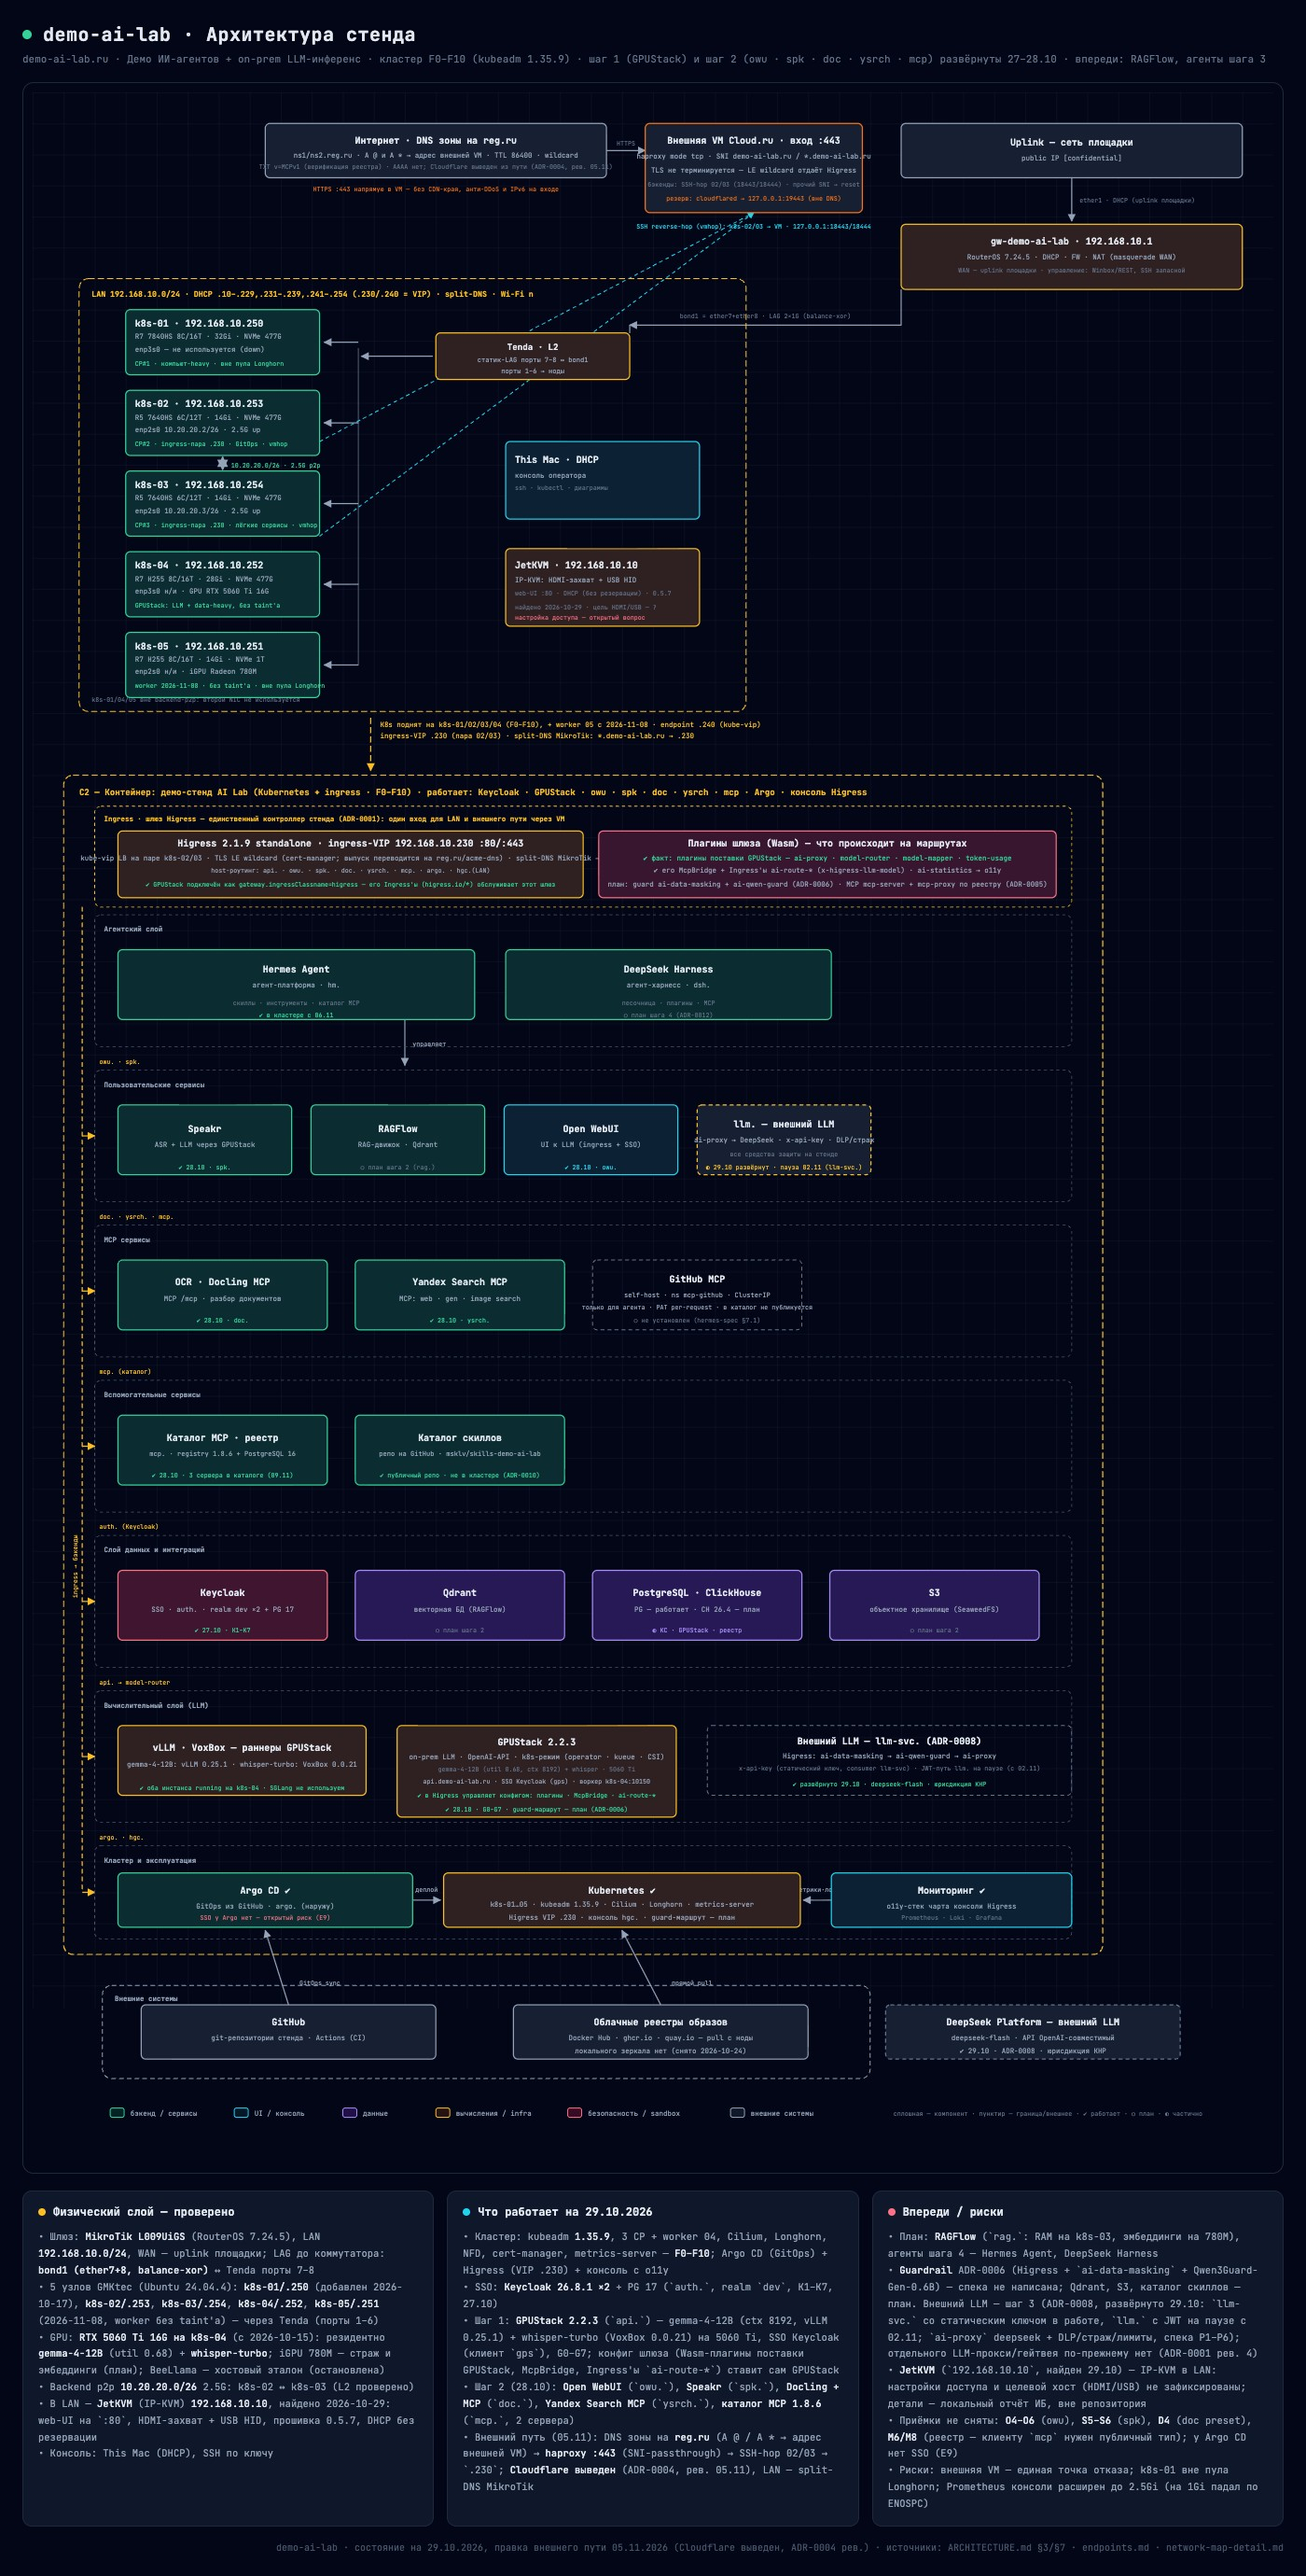
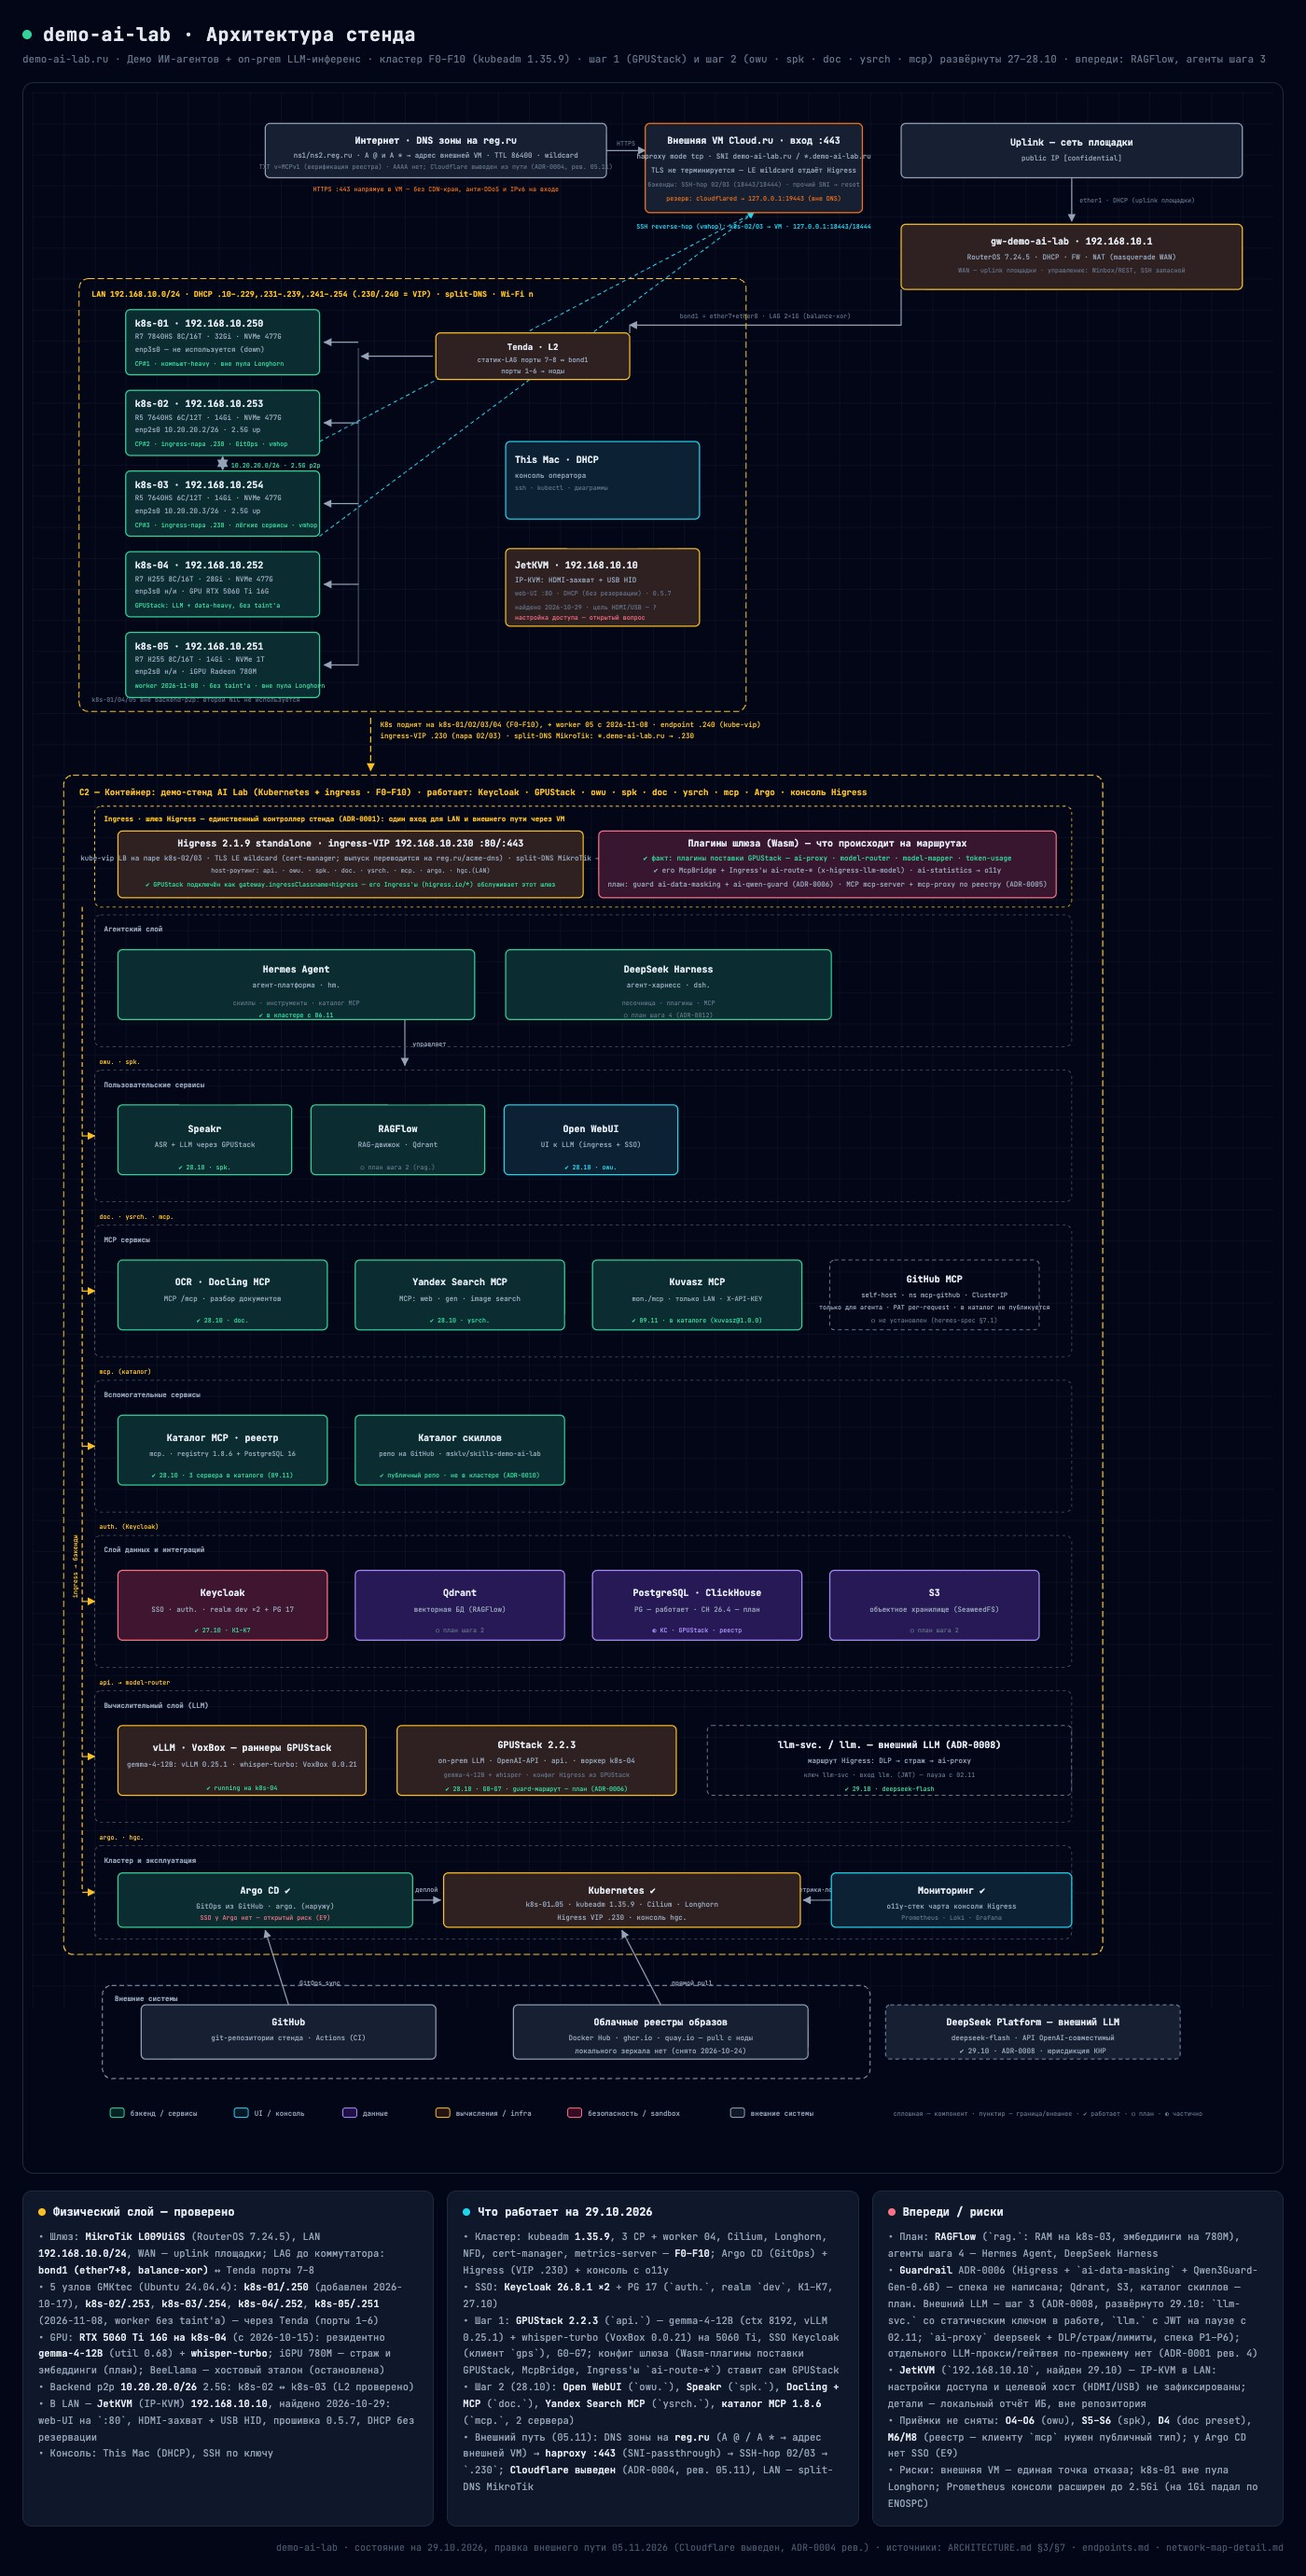
docs(schemes): ряд MCP полный, llm-svc/llm — на слое вычислений, подписи сжаты
Схемы C2 и общая (HTML + excalidraw), оба jpg перерисованы.

MCP: добавлен Kuvasz MCP (`mon./mcp`, только LAN, X-API-KEY, ✔ 09.11 в каталоге) —
ряд теперь полный: OCR·Docling, Yandex Search, Kuvasz, GitHub MCP (последним, пунктир:
self-host в ns mcp-github, ClusterIP-only, не в каталоге, не установлен). В excalidraw
четыре карточки сжаты до 250 px, чтобы влезть в зону без выхода за границу.

Внешний LLM: карточка `llm.` убрана из ряда «Пользовательские сервисы» (стояла не на своём
слое), в слое вычислений одна карточка `llm-svc. / llm.` с подписью «маршрут Higress».
В excalidraw box-llm перенесён из «Пользовательских сервисов» в «Вычислительный слой» и
поставлен под Higress, добавлена стрелка Higress → llm-svc; на GPUStack llm не завязан.

Подписи: GPUStack 6 строк мелких фактов → 3 (карточка 118→90 px, ряд выровнен), у vLLM
убран «SGLang не используем», у Kubernetes — metrics-server и дубль про guard-маршрут,
у llm-svc две длинные строки → одна.

Проверка: check_doc_links — 0 битых; сканы секретов/адресов/ИБ по staged-диффу — чисто.

Changed region(s): [[0.43, 0.4051, 0.6757, 0.5297], [0.3071, 0.6543, 0.5221, 0.7167], [0.6143, 0.6543, 0.7679, 0.7167]]

diff --git a/architecture/demo-ai-lab-architecture.html b/architecture/demo-ai-lab-architecture.html
@@ -326,14 +326,6 @@
   <text x="720" y="1360" font-size="9" fill="#94a3b8" text-anchor="middle">UI к LLM (ingress + SSO)</text>
   <text x="720" y="1388" font-size="8" fill="#22d3ee" text-anchor="middle">✔ 28.10 · owu.</text>
 
-  <!-- ===== внешний LLM: маршрут llm./llm-svc. (ADR-0008: развёрнут 29.10, пауза SSO-пути с 02.11) ===== -->
-  <rect x="857" y="1305" width="224" height="90" rx="6" fill="#0f172a"/>
-  <rect x="857" y="1305" width="224" height="90" rx="6" fill="rgba(30,41,59,0.5)" stroke="#fbbf24" stroke-width="1.5" stroke-dasharray="5,4"/>
-  <text x="969" y="1334" font-size="12" fill="#e2e8f0" text-anchor="middle" font-weight="700">llm. — внешний LLM</text>
-  <text x="969" y="1354" font-size="9" fill="#94a3b8" text-anchor="middle">ai-proxy → DeepSeek · x-api-key · DLP/страж</text>
-  <text x="969" y="1372" font-size="8" fill="#64748b" text-anchor="middle">все средства защиты на стенде</text>
-  <text x="969" y="1388" font-size="8" fill="#fbbf24" text-anchor="middle">◐ 29.10 развёрнут · пауза 02.11 (llm-svc.)</text>
-
   <!-- ===== MCP сервисы ===== -->
   <rect x="110" y="1505" width="270" height="90" rx="6" fill="#0f172a"/>
   <rect x="110" y="1505" width="270" height="90" rx="6" fill="rgba(6,78,59,0.4)" stroke="#34d399" stroke-width="1.5"/>
@@ -347,11 +339,17 @@
   <text x="551" y="1558" font-size="9" fill="#94a3b8" text-anchor="middle">MCP: web · gen · image search</text>
   <text x="551" y="1585" font-size="8" fill="#34d399" text-anchor="middle">✔ 28.10 · ysrch.</text>
 
-  <rect x="722" y="1505" width="270" height="90" rx="6" fill="none" stroke="#64748b" stroke-width="1.2" stroke-dasharray="5,4"/>
-  <text x="857" y="1534" font-size="12" fill="#e2e8f0" text-anchor="middle" font-weight="700">GitHub MCP</text>
-  <text x="857" y="1553" font-size="8.5" fill="#94a3b8" text-anchor="middle">self-host · ns mcp-github · ClusterIP</text>
-  <text x="857" y="1569" font-size="8" fill="#94a3b8" text-anchor="middle">только для агента · PAT per-request · в каталог не публикуется</text>
-  <text x="857" y="1586" font-size="8" fill="#64748b" text-anchor="middle">○ не установлен (hermes-spec §7.1)</text>
+  <rect x="722" y="1505" width="270" height="90" rx="6" fill="#0f172a"/>
+  <rect x="722" y="1505" width="270" height="90" rx="6" fill="rgba(6,78,59,0.4)" stroke="#34d399" stroke-width="1.5"/>
+  <text x="857" y="1538" font-size="12" fill="#e2e8f0" text-anchor="middle" font-weight="700">Kuvasz MCP</text>
+  <text x="857" y="1558" font-size="8.5" fill="#94a3b8" text-anchor="middle">mon./mcp · только LAN · X-API-KEY</text>
+  <text x="857" y="1585" font-size="8" fill="#34d399" text-anchor="middle">✔ 09.11 · в каталоге (kuvasz@1.0.0)</text>
+
+  <rect x="1028" y="1505" width="270" height="90" rx="6" fill="none" stroke="#64748b" stroke-width="1.2" stroke-dasharray="5,4"/>
+  <text x="1163" y="1534" font-size="12" fill="#e2e8f0" text-anchor="middle" font-weight="700">GitHub MCP</text>
+  <text x="1163" y="1553" font-size="8.5" fill="#94a3b8" text-anchor="middle">self-host · ns mcp-github · ClusterIP</text>
+  <text x="1163" y="1569" font-size="8" fill="#94a3b8" text-anchor="middle">только для агента · PAT per-request · в каталог не публикуется</text>
+  <text x="1163" y="1586" font-size="8" fill="#64748b" text-anchor="middle">○ не установлен (hermes-spec §7.1)</text>
 
   <!-- ===== вспомогательные ===== -->
   <rect x="110" y="1705" width="270" height="90" rx="6" fill="#0f172a"/>
@@ -396,22 +394,20 @@
   <rect x="110" y="2105" width="320" height="90" rx="6" fill="rgba(120,53,15,0.3)" stroke="#fbbf24" stroke-width="1.5"/>
   <text x="270" y="2138" font-size="12" fill="#e2e8f0" text-anchor="middle" font-weight="700">vLLM · VoxBox — раннеры GPUStack</text>
   <text x="270" y="2158" font-size="9" fill="#94a3b8" text-anchor="middle">gemma-4-12B: vLLM 0.25.1 · whisper-turbo: VoxBox 0.0.21</text>
-  <text x="270" y="2188" font-size="8" fill="#34d399" text-anchor="middle">✔ оба инстанса running на k8s-04 · SGLang не используем</text>
+  <text x="270" y="2188" font-size="8" fill="#34d399" text-anchor="middle">✔ running на k8s-04</text>
 
-  <rect x="470" y="2105" width="360" height="118" rx="6" fill="#0f172a"/>
-  <rect x="470" y="2105" width="360" height="118" rx="6" fill="rgba(120,53,15,0.3)" stroke="#fbbf24" stroke-width="1.5"/>
-  <text x="650" y="2130" font-size="12" fill="#e2e8f0" text-anchor="middle" font-weight="700">GPUStack 2.2.3</text>
-  <text x="650" y="2148" font-size="9" fill="#94a3b8" text-anchor="middle">on-prem LLM · OpenAI-API · k8s-режим (operator · kueue · CSI)</text>
-  <text x="650" y="2164" font-size="8" fill="#64748b" text-anchor="middle">gemma-4-12B (util 0.68, ctx 8192) + whisper · 5060 Ti</text>
-  <text x="650" y="2180" font-size="8" fill="#94a3b8" text-anchor="middle">api.demo-ai-lab.ru · SSO Keycloak (gps) · воркер k8s-04:10150</text>
-  <text x="650" y="2198" font-size="8" fill="#34d399" text-anchor="middle">✔ в Higress управляет конфигом: плагины · McpBridge · ai-route-*</text>
-  <text x="650" y="2216" font-size="8" fill="#34d399" text-anchor="middle">✔ 28.10 · G0–G7 · guard-маршрут — план (ADR-0006)</text>
+  <rect x="470" y="2105" width="360" height="90" rx="6" fill="#0f172a"/>
+  <rect x="470" y="2105" width="360" height="90" rx="6" fill="rgba(120,53,15,0.3)" stroke="#fbbf24" stroke-width="1.5"/>
+  <text x="650" y="2134" font-size="12" fill="#e2e8f0" text-anchor="middle" font-weight="700">GPUStack 2.2.3</text>
+  <text x="650" y="2154" font-size="9" fill="#94a3b8" text-anchor="middle">on-prem LLM · OpenAI-API · api. · воркер k8s-04</text>
+  <text x="650" y="2172" font-size="8" fill="#64748b" text-anchor="middle">gemma-4-12B + whisper · конфиг Higress из GPUStack</text>
+  <text x="650" y="2189" font-size="8" fill="#34d399" text-anchor="middle">✔ 28.10 · G0–G7 · guard-маршрут — план (ADR-0006)</text>
 
   <rect x="870" y="2105" width="470" height="90" rx="6" fill="none" stroke="#64748b" stroke-width="1.2" stroke-dasharray="5,4"/>
-  <text x="1105" y="2129" font-size="12" fill="#e2e8f0" text-anchor="middle" font-weight="700">Внешний LLM — llm-svc. (ADR-0008)</text>
-  <text x="1105" y="2147" font-size="9" fill="#94a3b8" text-anchor="middle">Higress: ai-data-masking → ai-qwen-guard → ai-proxy</text>
-  <text x="1105" y="2163" font-size="8" fill="#64748b" text-anchor="middle">x-api-key (статический ключ, consumer llm-svc) · JWT-путь llm. на паузе (с 02.11)</text>
-  <text x="1105" y="2183" font-size="8" fill="#34d399" text-anchor="middle">✔ развёрнуто 29.10 · deepseek-flash · юрисдикция КНР</text>
+  <text x="1105" y="2134" font-size="12" fill="#e2e8f0" text-anchor="middle" font-weight="700">llm-svc. / llm. — внешний LLM (ADR-0008)</text>
+  <text x="1105" y="2154" font-size="9" fill="#94a3b8" text-anchor="middle">маршрут Higress: DLP → страж → ai-proxy</text>
+  <text x="1105" y="2172" font-size="8" fill="#64748b" text-anchor="middle">ключ llm-svc · вход llm. (JWT) — пауза с 02.11</text>
+  <text x="1105" y="2189" font-size="8" fill="#34d399" text-anchor="middle">✔ 29.10 · deepseek-flash</text>
 
   <!-- ===== эксплуатация ===== -->
   <rect x="110" y="2295" width="380" height="70" rx="6" fill="#0f172a"/>
@@ -423,8 +419,8 @@
   <rect x="530" y="2295" width="460" height="70" rx="6" fill="#0f172a"/>
   <rect x="530" y="2295" width="460" height="70" rx="6" fill="rgba(120,53,15,0.3)" stroke="#fbbf24" stroke-width="1.5"/>
   <text x="760" y="2322" font-size="12" fill="#e2e8f0" text-anchor="middle" font-weight="700">Kubernetes ✔</text>
-  <text x="760" y="2339" font-size="9" fill="#94a3b8" text-anchor="middle">k8s-01…05 · kubeadm 1.35.9 · Cilium · Longhorn · metrics-server</text>
-  <text x="760" y="2356" font-size="9" fill="#94a3b8" text-anchor="middle">Higress VIP .230 · консоль hgc. · guard-маршрут — план</text>
+  <text x="760" y="2339" font-size="9" fill="#94a3b8" text-anchor="middle">k8s-01…05 · kubeadm 1.35.9 · Cilium · Longhorn</text>
+  <text x="760" y="2356" font-size="9" fill="#94a3b8" text-anchor="middle">Higress VIP .230 · консоль hgc.</text>
 
   <rect x="1030" y="2295" width="310" height="70" rx="6" fill="#0f172a"/>
   <rect x="1030" y="2295" width="310" height="70" rx="6" fill="rgba(8,51,68,0.4)" stroke="#22d3ee" stroke-width="1.5"/>
